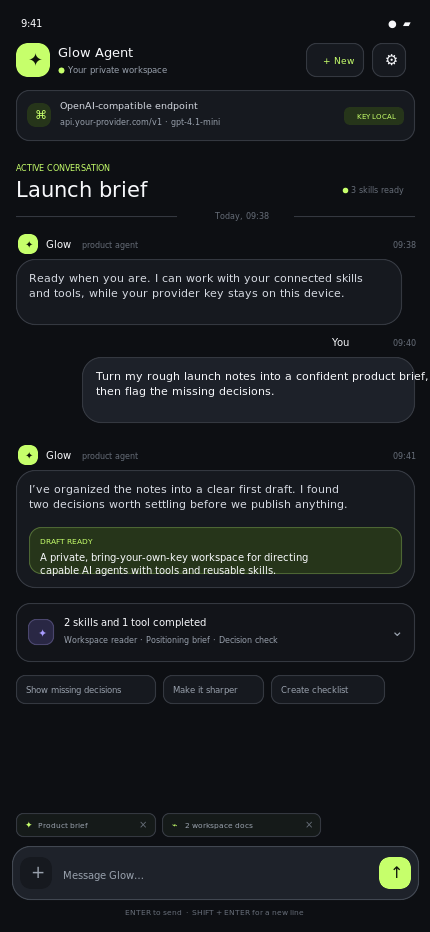
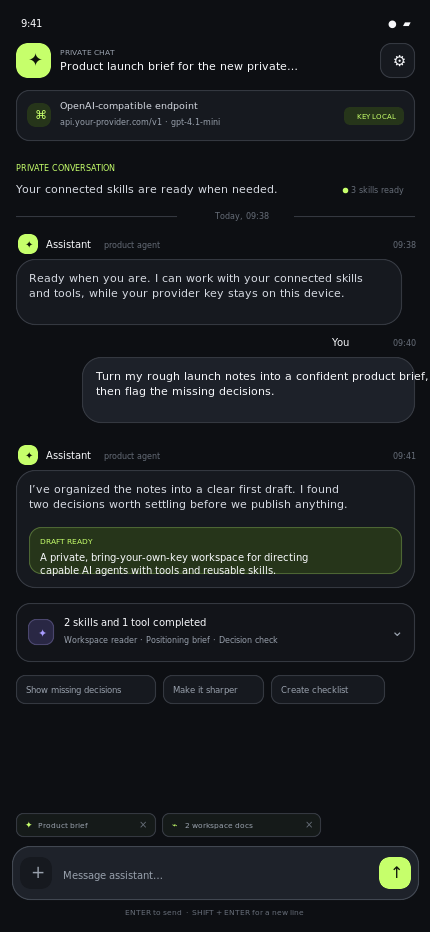
design: add chat history drawer navigation

diff --git a/chat-page.html b/chat-page.html
@@ -86,38 +86,47 @@
     .battery { width: 19px; height: 9px; padding: 1px; border: 1.2px solid currentColor; border-radius: 3px; }
     .battery::before { content: ""; display: block; width: 70%; height: 100%; border-radius: 1px; background: currentColor; }
 
-    .topbar { display: flex; align-items: center; justify-content: space-between; padding: 13px 16px 12px; }
-    .brand { display: flex; align-items: center; gap: 9px; min-width: 0; }
-    .brand-mark {
+    .topbar { display: grid; grid-template-columns: 34px minmax(0, 1fr) 34px; align-items: center; gap: 9px; padding: 13px 16px 12px; }
+    .history-launcher, .icon-button {
       display: grid;
-      width: 33px;
-      height: 33px;
-      place-items: center;
-      flex: 0 0 auto;
-      border-radius: 11px;
-      background: var(--accent);
-      color: var(--accent-ink);
-      box-shadow: 0 8px 18px var(--accent-wash);
-    }
-    .brand-mark svg { width: 19px; height: 19px; fill: currentColor; }
-    .brand-copy { min-width: 0; }
-    .brand-copy b { display: block; font-size: 13px; font-weight: 800; letter-spacing: -.04em; }
-    .brand-copy span { display: flex; align-items: center; gap: 5px; margin-top: 1px; color: var(--muted); font-family: var(--mono); font-size: 8.5px; }
-    .presence { width: 5px; height: 5px; border-radius: 50%; background: var(--accent); box-shadow: 0 0 0 3px var(--accent-wash); }
-    .topbar-actions { display: flex; align-items: center; gap: 7px; }
-    .icon-button, .new-chat {
-      display: grid;
-      height: 33px;
+      width: 34px;
+      height: 34px;
       place-items: center;
       border: 1px solid var(--line);
-      border-radius: 10px;
+      border-radius: 11px;
       background: var(--surface);
       color: var(--text);
     }
-    .icon-button { width: 33px; }
+    .history-launcher { border-color: transparent; background: var(--accent); color: var(--accent-ink); box-shadow: 0 8px 18px var(--accent-wash); }
+    .history-launcher svg { width: 19px; height: 19px; fill: currentColor; }
     .icon-button svg { width: 16px; height: 16px; stroke: currentColor; stroke-width: 1.8; fill: none; stroke-linecap: round; stroke-linejoin: round; }
-    .new-chat { grid-auto-flow: column; gap: 5px; padding: 0 10px; color: var(--accent); font-size: 10px; font-weight: 800; }
-    .new-chat svg { width: 13px; height: 13px; stroke: currentColor; stroke-width: 2; fill: none; }
+    .session-title { min-width: 0; padding: 0 2px; }
+    .session-title small, .session-title b { display: block; overflow: hidden; text-overflow: ellipsis; white-space: nowrap; }
+    .session-title small { margin-bottom: 2px; color: var(--muted); font-family: var(--mono); font-size: 7.5px; letter-spacing: .055em; text-transform: uppercase; }
+    .session-title b { color: var(--text); font-size: 12px; font-weight: 800; letter-spacing: -.027em; }
+
+    /* Left-side chat history drawer */
+    .drawer-scrim { position: absolute; inset: 0; z-index: 10; background: rgba(0,0,0,.54); opacity: 0; visibility: hidden; transition: opacity .22s ease, visibility .22s ease; }
+    .history-drawer { position: absolute; top: 0; bottom: 0; left: 0; z-index: 11; display: flex; width: min(86%, 365px); flex-direction: column; padding: calc(19px + env(safe-area-inset-top)) 12px calc(14px + env(safe-area-inset-bottom)); transform: translateX(-104%); border-right: 1px solid var(--line); background: #121419; box-shadow: 20px 0 50px rgba(0,0,0,.36); transition: transform .26s cubic-bezier(.2,.8,.2,1); }
+    .phone.drawer-open .drawer-scrim { visibility: visible; opacity: 1; }
+    .phone.drawer-open .history-drawer { transform: translateX(0); }
+    .drawer-head { display: flex; align-items: center; justify-content: space-between; padding: 0 4px 15px; }
+    .drawer-head h2 { margin: 0; font-size: 15px; font-weight: 800; letter-spacing: -.045em; }
+    .drawer-close { display: grid; width: 31px; height: 31px; place-items: center; border: 1px solid var(--line); border-radius: 10px; background: var(--surface); color: var(--muted); font-size: 19px; }
+    .drawer-new { display: flex; align-items: center; justify-content: center; gap: 7px; width: 100%; height: 39px; margin: 0 0 18px; border: 0; border-radius: 11px; background: var(--accent); color: var(--accent-ink); font-size: 10px; font-weight: 850; }
+    .drawer-new span { font-size: 15px; font-weight: 500; }
+    .history-search { display: flex; align-items: center; gap: 8px; height: 35px; margin: 0 4px 15px; padding: 0 10px; border: 1px solid var(--line); border-radius: 10px; background: var(--surface); color: var(--quiet); font-family: var(--mono); font-size: 8.5px; }
+    .history-search svg { width: 13px; height: 13px; stroke: currentColor; stroke-width: 1.8; fill: none; }
+    .history-list { min-height: 0; padding: 0 4px; overflow: auto; scrollbar-width: thin; scrollbar-color: var(--line) transparent; }
+    .history-group + .history-group { margin-top: 19px; }
+    .history-group h3 { margin: 0 0 7px; color: var(--quiet); font-family: var(--mono); font-size: 8px; font-weight: 500; letter-spacing: .07em; text-transform: uppercase; }
+    .history-item { display: block; width: 100%; min-width: 0; padding: 10px 10px 9px; border: 1px solid transparent; border-radius: 11px; background: transparent; color: var(--text); text-align: left; }
+    .history-item + .history-item { margin-top: 3px; }
+    .history-item.active { border-color: rgba(198,255,107,.18); background: var(--accent-wash); }
+    .history-item:hover { background: var(--surface); }
+    .history-item b, .history-item span { display: block; overflow: hidden; white-space: nowrap; text-overflow: ellipsis; }
+    .history-item b { font-size: 10px; font-weight: 700; letter-spacing: -.018em; }.history-item span { margin-top: 4px; color: var(--quiet); font-family: var(--mono); font-size: 7.5px; }.history-item.active b { color: var(--accent); }
+    .drawer-footer { display: flex; align-items: center; gap: 7px; margin: 14px 4px 0; padding: 11px 9px; border-top: 1px solid var(--line); color: var(--muted); font-family: var(--mono); font-size: 8px; }.drawer-footer i { width: 6px; height: 6px; border-radius: 50%; background: var(--accent); box-shadow: 0 0 0 3px var(--accent-wash); }
 
     .endpoint {
       display: flex;
@@ -144,7 +153,7 @@
     }
     .thread-top { display: flex; align-items: end; justify-content: space-between; gap: 12px; margin-bottom: 18px; }
     .eyebrow { margin: 0 0 5px; color: var(--accent); font-size: 8px; font-weight: 500; letter-spacing: .115em; text-transform: uppercase; }
-    h1 { margin: 0; color: var(--text); font-size: 20px; font-weight: 800; letter-spacing: -.055em; line-height: 1.1; }
+    .thread-status { margin: 0; color: var(--text-soft); font-size: 11px; font-weight: 650; letter-spacing: -.02em; }
     .thread-meta { display: flex; align-items: center; gap: 5px; padding-bottom: 2px; color: var(--quiet); font-size: 8px; white-space: nowrap; }
     .thread-meta i { width: 4px; height: 4px; border-radius: 50%; background: var(--accent); }
 
@@ -214,7 +223,7 @@
     .composer-hint { margin: 7px 3px 0; color: var(--quiet); font-size: 7.5px; text-align: center; }.composer-hint strong { color: var(--muted); font-weight: 500; }
 
     .toast { position: absolute; top: 154px; left: 50%; z-index: 3; width: max-content; max-width: calc(100% - 36px); padding: 8px 10px; transform: translate(-50%, -12px); border: 1px solid rgba(198,255,107,.22); border-radius: 9px; background: #1d2520; color: var(--accent); box-shadow: 0 10px 24px rgba(0,0,0,.28); font-family: var(--mono); font-size: 8px; opacity: 0; pointer-events: none; transition: opacity .2s ease, transform .2s ease; }.toast.show { transform: translate(-50%, 0); opacity: 1; }
-    .empty-state { display: grid; min-height: 400px; place-content: center; padding: 20px; text-align: center; }.empty-state .brand-mark { width: 44px; height: 44px; margin: 0 auto; border-radius: 15px; }.empty-state h2 { margin: 14px 0 6px; font-size: 20px; letter-spacing: -.05em; }.empty-state p { max-width: 270px; margin: 0; color: var(--muted); font-size: 11px; line-height: 1.55; }.empty-state .quick-actions { justify-content: center; margin-top: 18px; }
+    .empty-state { display: grid; min-height: 400px; place-content: center; padding: 20px; text-align: center; }.empty-state .brand-mark { display: grid; width: 44px; height: 44px; margin: 0 auto; place-items: center; border-radius: 15px; background: var(--accent); color: var(--accent-ink); box-shadow: 0 8px 18px var(--accent-wash); font-size: 20px; }.empty-state h2 { margin: 14px 0 6px; font-size: 20px; letter-spacing: -.05em; }.empty-state p { max-width: 270px; margin: 0; color: var(--muted); font-size: 11px; line-height: 1.55; }.empty-state .quick-actions { justify-content: center; margin-top: 18px; }
 
     @media (min-width: 600px) { body { padding: 24px 0; }.phone { min-height: calc(100dvh - 48px); border-radius: 30px; } }
     @media (max-height: 720px) { .thread { padding-top: 14px; }.thread-top { margin-bottom: 13px; }.message { margin-bottom: 11px; }.run-card { margin-bottom: 11px; }.composer-area { padding-top: 12px; } }
@@ -222,18 +231,32 @@
   </style>
 </head>
 <body>
-  <main class="phone" aria-label="Glow Agent mobile chat page design">
+  <main class="phone" id="phone" aria-label="Glow Agent mobile chat page design">
+    <button class="drawer-scrim" id="drawerScrim" type="button" tabindex="-1" aria-label="Close chat history"></button>
+    <aside class="history-drawer" id="historyDrawer" aria-label="Chat history" aria-hidden="true">
+      <header class="drawer-head"><h2>Chats</h2><button class="drawer-close" id="drawerClose" type="button" aria-label="Close chat history">×</button></header>
+      <button class="drawer-new" id="newChat" type="button"><span aria-hidden="true">+</span> Start new chat</button>
+      <div class="history-search" aria-label="Search chat history"><svg viewBox="0 0 24 24" aria-hidden="true"><circle cx="10.7" cy="10.7" r="5.7"/><path d="m15 15 4 4"/></svg>Search chats</div>
+      <nav class="history-list" aria-label="Previous conversations">
+        <section class="history-group"><h3>Today</h3>
+          <button class="history-item active" type="button"><b title="Product launch brief for the new private AI workspace">Product launch brief for the new private AI workspace</b><span>09:38 · 3 skills</span></button>
+          <button class="history-item" type="button"><b>Compare OpenAI-compatible providers</b><span>08:12 · 1 tool</span></button>
+        </section>
+        <section class="history-group"><h3>Previous 7 days</h3>
+          <button class="history-item" type="button"><b>Design a mobile settings experience</b><span>Yesterday · 2 skills</span></button>
+          <button class="history-item" type="button"><b>Plan documentation structure</b><span>Mon · 4 sources</span></button>
+          <button class="history-item" type="button"><b>Review product ideas</b><span>Sun · Chat only</span></button>
+        </section>
+      </nav>
+      <footer class="drawer-footer"><i></i> Key remains local to this device</footer>
+    </aside>
+
     <div class="status" aria-hidden="true"><span>9:41</span><span class="status-signals"><span class="signal"><i></i><i></i><i></i><i></i></span><span class="wifi"></span><span class="battery"></span></span></div>
 
     <header class="topbar">
-      <div class="brand">
-        <span class="brand-mark" aria-hidden="true"><svg viewBox="0 0 24 24"><path d="M12 1.9c.4 6.2 3.3 9.5 9.4 10.1-6.1.5-9 3.8-9.4 10.1C11.5 15.8 8.6 12.5 2.5 12 8.6 11.4 11.5 8.1 12 1.9Z"/></svg></span>
-        <span class="brand-copy"><b>Glow Agent</b><span><i class="presence"></i> Your private workspace</span></span>
-      </div>
-      <div class="topbar-actions">
-        <button class="new-chat" id="newChat" type="button"><svg viewBox="0 0 24 24" aria-hidden="true"><path d="M12 5v14M5 12h14"/></svg>New</button>
-        <button class="icon-button" type="button" aria-label="Chat settings"><svg viewBox="0 0 24 24" aria-hidden="true"><path d="M12 15.3a3.3 3.3 0 1 0 0-6.6 3.3 3.3 0 0 0 0 6.6Z"/><path d="M19.4 15a1.7 1.7 0 0 0 .34 1.88l.06.06-2.1 2.1-.06-.06a1.7 1.7 0 0 0-1.88-.34 1.7 1.7 0 0 0-1.03 1.56v.1h-3v-.1a1.7 1.7 0 0 0-1.03-1.56 1.7 1.7 0 0 0-1.88.34l-.06.06-2.1-2.1.06-.06A1.7 1.7 0 0 0 7.1 15a1.7 1.7 0 0 0-1.56-1.03h-.1v-3h.1A1.7 1.7 0 0 0 7.1 9.94a1.7 1.7 0 0 0-.34-1.88L6.7 8l2.1-2.1.06.06a1.7 1.7 0 0 0 1.88.34 1.7 1.7 0 0 0 1.03-1.56v-.1h3v.1a1.7 1.7 0 0 0 1.03 1.56 1.7 1.7 0 0 0 1.88-.34l.06-.06 2.1 2.1-.06.06a1.7 1.7 0 0 0-.34 1.88 1.7 1.7 0 0 0 1.56 1.03h.1v3h-.1A1.7 1.7 0 0 0 19.4 15Z"/></svg></button>
-      </div>
+      <button class="history-launcher" id="historyLauncher" type="button" aria-label="Open chat history" aria-controls="historyDrawer" aria-expanded="false"><svg viewBox="0 0 24 24" aria-hidden="true"><path d="M12 1.9c.4 6.2 3.3 9.5 9.4 10.1-6.1.5-9 3.8-9.4 10.1C11.5 15.8 8.6 12.5 2.5 12 8.6 11.4 11.5 8.1 12 1.9Z"/></svg></button>
+      <div class="session-title"><small>Private chat</small><b id="sessionName" title="Product launch brief for the new private AI workspace">Product launch brief for the new private AI workspace</b></div>
+      <button class="icon-button" type="button" aria-label="Chat settings"><svg viewBox="0 0 24 24" aria-hidden="true"><path d="M12 15.3a3.3 3.3 0 1 0 0-6.6 3.3 3.3 0 0 0 0 6.6Z"/><path d="M19.4 15a1.7 1.7 0 0 0 .34 1.88l.06.06-2.1 2.1-.06-.06a1.7 1.7 0 0 0-1.88-.34 1.7 1.7 0 0 0-1.03 1.56v.1h-3v-.1a1.7 1.7 0 0 0-1.03-1.56 1.7 1.7 0 0 0-1.88.34l-.06.06-2.1-2.1.06-.06A1.7 1.7 0 0 0 7.1 15a1.7 1.7 0 0 0-1.56-1.03h-.1v-3h.1A1.7 1.7 0 0 0 7.1 9.94a1.7 1.7 0 0 0-.34-1.88L6.7 8l2.1-2.1.06.06a1.7 1.7 0 0 0 1.88.34 1.7 1.7 0 0 0 1.03-1.56v-.1h3v.1a1.7 1.7 0 0 0 1.03 1.56 1.7 1.7 0 0 0 1.88-.34l.06-.06 2.1 2.1-.06.06a1.7 1.7 0 0 0-.34 1.88 1.7 1.7 0 0 0 1.56 1.03h.1v3h-.1A1.7 1.7 0 0 0 19.4 15Z"/></svg></button>
     </header>
 
     <section class="endpoint" aria-label="Connected model endpoint">
@@ -246,14 +269,14 @@
 
     <section class="thread" id="thread" aria-label="Conversation">
       <div class="thread-top">
-        <div><p class="eyebrow">Active conversation</p><h1>Launch brief</h1></div>
+        <div><p class="eyebrow">Private conversation</p><p class="thread-status">Your connected skills are ready when needed.</p></div>
         <div class="thread-meta"><i></i>3 skills ready</div>
       </div>
       <div id="conversation">
         <p class="day-stamp">Today, 09:38</p>
 
         <article class="message agent-message">
-          <div class="message-top"><span class="avatar agent" aria-hidden="true">✦</span><span class="message-name">Glow</span><span class="message-role">product agent</span><time class="time">09:38</time></div>
+          <div class="message-top"><span class="avatar agent" aria-hidden="true">✦</span><span class="message-name">Assistant</span><span class="message-role">product agent</span><time class="time">09:38</time></div>
           <div class="bubble"><p>Ready when you are. I can work with your connected skills and tools, while your provider key stays on this device.</p></div>
         </article>
 
@@ -263,10 +286,10 @@
         </article>
 
         <article class="message agent-message">
-          <div class="message-top"><span class="avatar agent" aria-hidden="true">✦</span><span class="message-name">Glow</span><span class="message-role">product agent</span><time class="time">09:41</time></div>
+          <div class="message-top"><span class="avatar agent" aria-hidden="true">✦</span><span class="message-name">Assistant</span><span class="message-role">product agent</span><time class="time">09:41</time></div>
           <div class="bubble">
             <p>I’ve organized the notes into a clear first draft. I found two decisions that are worth settling before we publish anything.</p>
-            <div class="answer-card"><span>Draft ready</span><p>Glow Agent is a private, bring-your-own-key workspace for directing capable AI agents with tools and reusable skills.</p></div>
+            <div class="answer-card"><span>Draft ready</span><p>A private, bring-your-own-key workspace for directing capable AI agents with tools and reusable skills.</p></div>
           </div>
         </article>
 
@@ -295,7 +318,7 @@
       <div class="context-row" aria-label="Active chat context"><span class="context-chip"><b>✦</b> Product brief <span class="close">×</span></span><span class="context-chip"><b>⌁</b> 2 workspace docs <span class="close">×</span></span></div>
       <div class="composer">
         <button class="composer-button" type="button" aria-label="Attach context or tools"><svg viewBox="0 0 24 24"><path d="M12 5v14M5 12h14"/></svg></button>
-        <textarea id="prompt" rows="1" aria-label="Message Glow Agent" placeholder="Message Glow…"></textarea>
+        <textarea id="prompt" rows="1" aria-label="Message assistant" placeholder="Message assistant…"></textarea>
         <button class="composer-button send" id="sendButton" type="submit" aria-label="Send message" disabled><svg viewBox="0 0 24 24"><path d="m5 12 14-7-4 14-3-5-5-2Z"/><path d="m12 12 3-3"/></svg></button>
       </div>
       <p class="composer-hint"><strong>Enter</strong> to send · <strong>Shift + Enter</strong> for a new line</p>
@@ -303,6 +326,7 @@
   </main>
 
   <script>
+    const phone = document.getElementById('phone');
     const prompt = document.getElementById('prompt');
     const sendButton = document.getElementById('sendButton');
     const composerForm = document.getElementById('composerForm');
@@ -311,6 +335,11 @@
     const runCard = document.getElementById('runCard');
     const runToggle = document.getElementById('runToggle');
     const toast = document.getElementById('toast');
+    const historyLauncher = document.getElementById('historyLauncher');
+    const historyDrawer = document.getElementById('historyDrawer');
+    const drawerScrim = document.getElementById('drawerScrim');
+    const drawerClose = document.getElementById('drawerClose');
+    const sessionName = document.getElementById('sessionName');
     let toastTimer;
 
     function resizePrompt() {
@@ -326,6 +355,14 @@
       toastTimer = setTimeout(() => toast.classList.remove('show'), 2200);
     }
 
+    function setDrawer(isOpen) {
+      phone.classList.toggle('drawer-open', isOpen);
+      historyDrawer.setAttribute('aria-hidden', String(!isOpen));
+      historyLauncher.setAttribute('aria-expanded', String(isOpen));
+      if (isOpen) drawerClose.focus();
+      else historyLauncher.focus();
+    }
+
     function appendMessage(text) {
       const safeText = document.createTextNode(text);
       const article = document.createElement('article');
@@ -336,10 +373,26 @@
 
       const reply = document.createElement('article');
       reply.className = 'message agent-message';
-      reply.innerHTML = '<div class="message-top"><span class="avatar agent" aria-hidden="true">✦</span><span class="message-name">Glow</span><span class="message-role">product agent</span><time class="time">now</time></div><div class="bubble"><p>Captured. This interaction is a UI prototype, so a live model response will arrive when we connect the Termux backend in the implementation phase.</p></div>';
+      reply.innerHTML = '<div class="message-top"><span class="avatar agent" aria-hidden="true">✦</span><span class="message-name">Assistant</span><span class="message-role">product agent</span><time class="time">now</time></div><div class="bubble"><p>Captured. This interaction is a UI prototype, so a live model response will arrive when we connect the Termux backend in the implementation phase.</p></div>';
       conversation.append(reply);
       thread.scrollTo({ top: thread.scrollHeight, behavior: 'smooth' });
     }
+
+    historyLauncher.addEventListener('click', () => setDrawer(true));
+    drawerClose.addEventListener('click', () => setDrawer(false));
+    drawerScrim.addEventListener('click', () => setDrawer(false));
+    document.addEventListener('keydown', (event) => {
+      if (event.key === 'Escape' && phone.classList.contains('drawer-open')) setDrawer(false);
+    });
+    document.querySelectorAll('.history-item').forEach((item) => item.addEventListener('click', () => {
+      document.querySelectorAll('.history-item').forEach((entry) => entry.classList.remove('active'));
+      item.classList.add('active');
+      const title = item.querySelector('b').textContent;
+      sessionName.textContent = title;
+      sessionName.title = title;
+      setDrawer(false);
+      showToast('Conversation selected — content loads in implementation');
+    }));
 
     prompt.addEventListener('input', resizePrompt);
     prompt.addEventListener('keydown', (event) => {
@@ -364,8 +417,11 @@
       runToggle.setAttribute('aria-expanded', String(!expanded));
     });
     document.getElementById('newChat').addEventListener('click', () => {
-      conversation.innerHTML = '<div class="empty-state"><span class="brand-mark" aria-hidden="true">✦</span><h2>A fresh thread.</h2><p>Start with an outcome. Glow will choose only the skills and tools that help move it forward.</p><div class="quick-actions"><button class="chip" type="button" data-empty-prompt="Plan a product launch.">Plan a launch</button><button class="chip" type="button" data-empty-prompt="Research a topic.">Research a topic</button></div></div>';
+      conversation.innerHTML = '<div class="empty-state"><span class="brand-mark" aria-hidden="true">✦</span><h2>A fresh thread.</h2><p>Start with an outcome. The agent will choose only the skills and tools that help move it forward.</p><div class="quick-actions"><button class="chip" type="button" data-empty-prompt="Plan a product launch.">Plan a launch</button><button class="chip" type="button" data-empty-prompt="Research a topic.">Research a topic</button></div></div>';
+      sessionName.textContent = 'New conversation';
+      sessionName.title = 'New conversation';
       document.querySelectorAll('[data-empty-prompt]').forEach((button) => button.addEventListener('click', () => { prompt.value = button.dataset.emptyPrompt; resizePrompt(); prompt.focus(); }));
+      setDrawer(false);
       showToast('Fresh conversation started');
       prompt.focus();
     });

diff --git a/README.md b/README.md
@@ -4,7 +4,7 @@ Planning for a mobile-friendly web application with a JavaScript backend running
 
 - [Termux web application plan](docs/TERMUX_WEB_APP_PLAN.md)
 - [Mobile UI design exploration](design-exploration.html) — a self-contained, interactive HTML review with three palettes and three mobile-screen directions.
-- [Neural Ink chat-page design](chat-page.html) — the selected dark/precise chat direction, designed for mobile only and intentionally without bottom navigation.
-- `design-previews/` — PNG previews for Neural Ink / Focus Chat, Iris Signal / Agent Run, Paper Circuit / Skills & Tools, and the selected [Neural Ink chat page](design-previews/neural-ink-chat-page.png).
+- [Neural Ink chat-page design](chat-page.html) — the selected dark/precise mobile chat direction, without bottom navigation. Its left icon opens an accessible chat-history drawer; the top-centre session title truncates long names with an ellipsis.
+- `design-previews/` — PNG previews for Neural Ink / Focus Chat, Iris Signal / Agent Run, Paper Circuit / Skills & Tools, the selected [Neural Ink chat page](design-previews/neural-ink-chat-page.png), and its [chat-history drawer](design-previews/neural-ink-chat-history.png).
 
 The product brief is the next required step before implementation. The plan lists the exact decisions needed and the proposed frontend, backend, security, database, and Termux approach.
